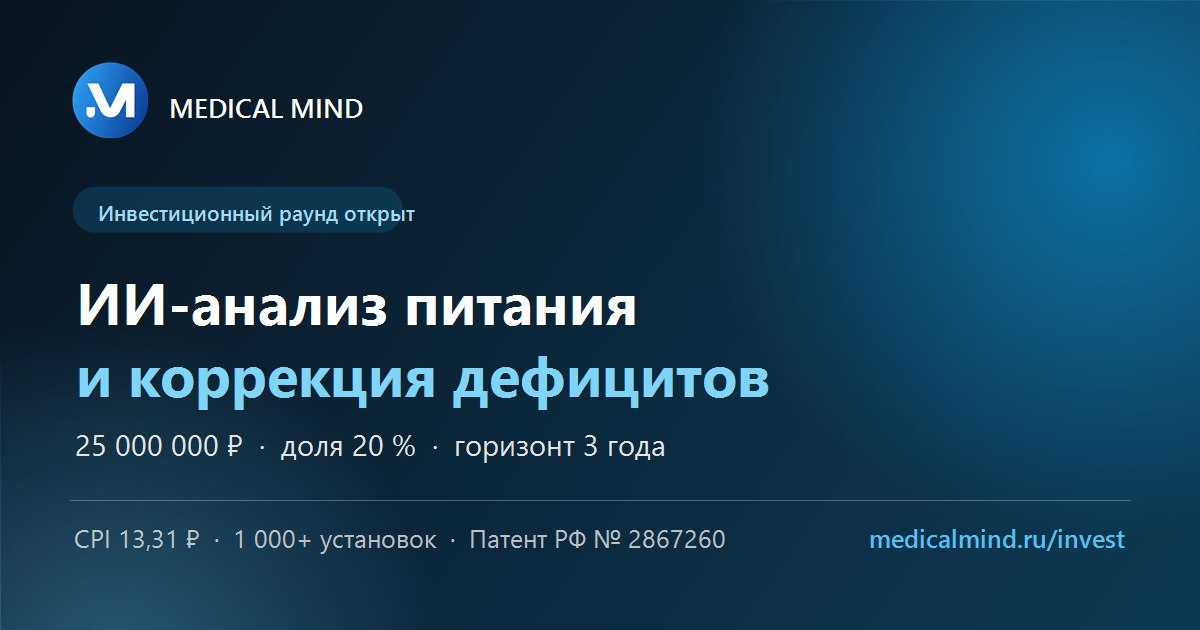
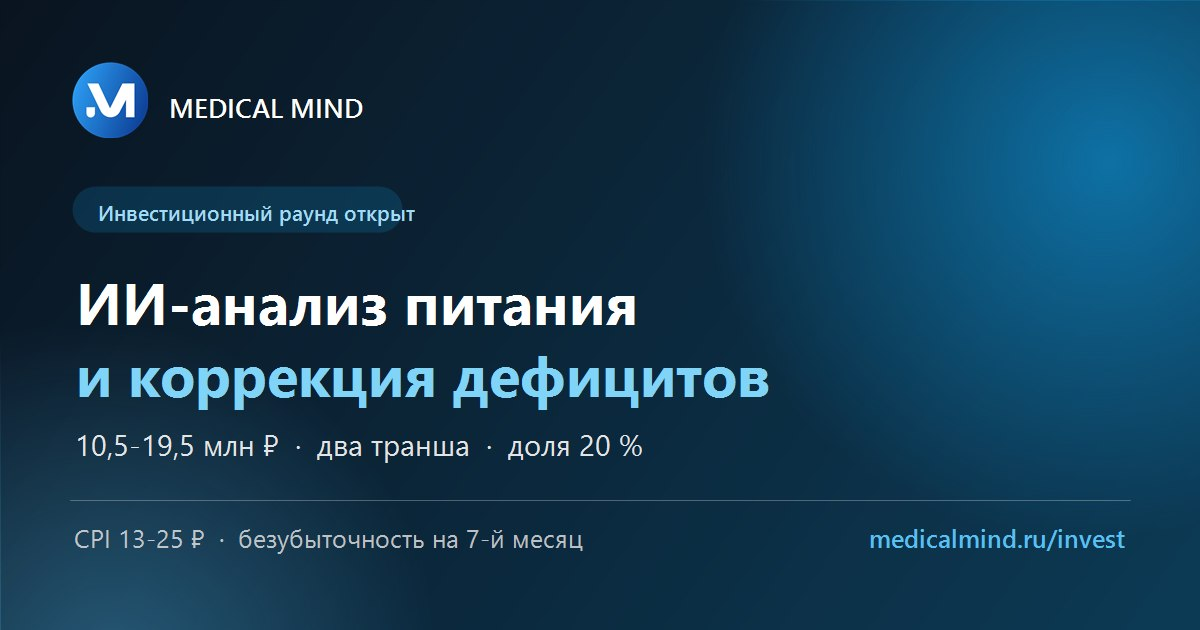
data(invest): цифры финмодели v2.1 — вилка 10,5–19,5 млн ₽ двумя траншами
Запрос 25 млн ₽ единым раундом и распределение 40/28/20/12 убраны везде,
включая метатеги и og:image.

Раунд:
- запрос — вилка 10,5–19,5 млн ₽ (AI-lean -> 10,5, классический штат -> 19,5),
  два транша; доля 20% и горизонт 3 года без изменений;
- добавлены тексты про транши, gate по конверсии >= 2%, обоснование вилки
  и снижение риска — в существующих блоках .callout, вёрстка не менялась.

Использование средств из затрат модели до безубыточности (М1–М7, база×lean):
маркетинг 33, команда 33, ИИ-инфраструктура 14, СТМ БАД 8, наука и ИС 5,
операции и резерв 8. Абсолютные суммы по статьям убраны: при запросе-вилке
они неоднозначны, поэтому рендер суммы стал опциональным.

Цифры проекта: CPI 13–25 ₽ двумя верифицированными замерами (январь и август
2026, VK Ads) вместо 13,31 ₽; добавлены комиссия RuStore 15%, выход в
операционный плюс на 7-й месяц, доля БАД и партнёрских сервисов 28–30%
к концу второго года. Прогноз выручки 27/58/60 млн ₽ вместо 50/190/290.
В строку юнит-экономики добавлен LTV/CAC 2–3× на консервативных допущениях
и 5×+ при целевом удержании.

Два места пришлось поправить по месту, иначе данные не читались:
кегль суммы в центре диаграммы уменьшен, чтобы вилка легла в две строки
внутри кольца; подпись статьи сокращена до «Наука и ИС» — полная
формулировка ломала строку на 390 px, детали ушли в сноску под диаграммой.

Changed region(s): [[0.1233, 0.8444, 0.6167, 0.8746], [0.0617, 0.6937, 0.555, 0.7238]]

diff --git a/public/invest/app.js b/public/invest/app.js
@@ -8,7 +8,7 @@
 const METRICS = {
 
   /* --- дата актуальности данных (выводится в блоке «Цифры проекта») --- */
-  updated: '18 августа 2026',
+  updated: '24 августа 2026',
 
   /* --- контакты и ссылки --- */
   email:       'farmico@list.ru',
@@ -24,7 +24,30 @@ const METRICS = {
   yandexMetrikaId: null,
 
   /* --- параметры раунда --- */
-  round: { amount: 25000000, amountShort: '25 млн ₽', share: 20, horizonYears: 3 },
+  /* Финмодель v2.1. Запрос — вилка, зависит от модели команды:
+     AI-lean -> 10,5 млн ₽, классический штат -> 19,5 млн ₽. */
+  round: {
+    amountShort: '10,5–19,5 млн ₽',
+    tranchesShort: 'два транша',
+    share: 20,
+    horizonYears: 3
+  },
+
+  /* Тексты по раунду (финмодель v2.1) */
+  trancheNote: 'Раунд 10,5–19,5 млн ₽ двумя траншами. Второй транш — только после подтверждения ' +
+               'юнит-экономики на живом трафике: инвестор не платит за масштабирование ' +
+               'до доказанной конверсии.',
+  trancheBreakdown: 'Транш 1 — 7,0 млн ₽: продукт, запуск СТМ, ИИ-оборудование и проверка ' +
+                    'юнит-экономики. Транш 2 — 5,5 млн ₽: масштабирование рекламы, ' +
+                    'выплачивается только после подтверждения конверсии ≥ 2 % (gate).',
+  whyRange: 'Почему вилка. Нижняя граница — AI-lean операционная модель (фаундер + AI-агентная ' +
+            'разработка + минимальный наём): выход в прибыль на 7-й месяц. Верхняя — классическая ' +
+            'команда с ускоренным наймом. Разница — около 9 млн ₽ и 2 месяца до безубыточности; ' +
+            'выбор структуры — совместно с инвестором.',
+  riskNote: 'Снижение риска. Модель построена на верифицированных данных: два замера CPI, ' +
+            'работающие платежи, фактическая комиссия магазина и себестоимость AI. Два допущения — ' +
+            'конверсия и удержание — проверяются в первые 2 месяца на бюджете около 150 тыс ₽ ' +
+            'до раскрытия основного капитала.',
 
   /* --- охраняемые документы (номера) --- */
   patent:    '2867260',
@@ -34,9 +57,9 @@ const METRICS = {
   /* --- карточки блока «Цифры проекта» ---
      tag: 'fact' — факт, 'est' — оценка, 'fcst' — прогноз                     */
   cards: [
-    { value: 13.31, decimals: 2, unit: '₽',
+    { value: 13, suffix: '–25', unit: '₽',
       label: 'CPI — стоимость установки',
-      note:  'Реальная кампания ВКонтакте: в 11 раз ниже прогноза 150 ₽.', tag: 'fact' },
+      note:  'Два верифицированных замера: январь и август 2026, VK Ads.', tag: 'fact' },
 
     { value: 1000, suffix: '+',
       label: 'установок в RuStore',
@@ -50,6 +73,18 @@ const METRICS = {
       label: 'подписка Premium',
       note:  'Монетизация работает в проде, платежи проходят.', tag: 'fact' },
 
+    { value: 15, unit: '%',
+      label: 'комиссия RuStore',
+      note:  'Подтверждена фактической выплатой магазина.', tag: 'fact' },
+
+    { value: 7, unit: 'мес.',
+      label: 'выход в операционный плюс',
+      note:  'Базовый сценарий финмодели при AI-lean команде.', tag: 'fcst' },
+
+    { value: 28, suffix: '–30', unit: '%',
+      label: 'доля БАД и партнёрских сервисов',
+      note:  'В выручке к концу второго года.', tag: 'fcst' },
+
     { value: 50, suffix: '+', unit: 'млрд ₽/год',
       label: 'рынок HealthTech в России',
       note:  'Оценка объёма, рост 12–15 % в год.', tag: 'est' },
@@ -59,8 +94,10 @@ const METRICS = {
       note:  'Оценка объёма, рост 12–15 % в год.', tag: 'est' }
   ],
 
-  metricsFootnote: 'Рекламная кампания возобновлена в августе 2026 — значение CPI будет обновляться. ' +
-                   'Рыночные объёмы приведены как оценка, плановые показатели помечены как прогноз.',
+
+  metricsFootnote: 'CPI подтверждён двумя замерами кампаний VK Ads (январь и август 2026) и будет обновляться. ' +
+                   'Рыночные объёмы приведены как оценка, показатели финмодели помечены как прогноз ' +
+                   'и не гарантируются.',
 
   /* --- «Как это работает» --- */
   steps: [
@@ -91,6 +128,7 @@ const METRICS = {
   arpu: 1139,
   paybackFrom: 1,
   paybackTo: 2,
+  ltvCac: 'LTV/CAC 2–3× на консервативных допущениях, 5×+ при целевом удержании',
 
   /* --- наука и защита --- */
   science: [
@@ -106,13 +144,19 @@ const METRICS = {
   ],
 
   /* --- использование средств (сумма долей должна давать 100 %) --- */
-  fundsNote: 'Базовый план — структура уточняется по итогам раунда.',
+  fundsNote: 'Доли рассчитаны из затрат финмодели v2.1 до точки безубыточности (месяцы 1–7, ' +
+             'сценарий база × lean). ИИ-инфраструктура — оборудование и датасеты (CAPEX); ' +
+             'СТМ БАД — СГР, «Честный знак» и первая партия; наука и ИС — НИР с НИИ гигиены ' +
+             'и патент США.',
   funds: [
-    { label: 'Команда',                        percent: 40, amount: 10000000, color: '#0a6fb3' },
-    { label: 'Маркетинг',                      percent: 28, amount:  7000000, color: '#0f9ee6' },
-    { label: 'Производство линейки БАД',       percent: 20, amount:  5000000, color: '#57c0f4' },
-    { label: 'IT-инфраструктура и резерв',     percent: 12, amount:  3000000, color: '#9ee7ff' }
+    { label: 'Маркетинг и рост',                    percent: 33, color: '#0a6fb3' },
+    { label: 'Команда',                             percent: 33, color: '#0f9ee6' },
+    { label: 'Собственная ИИ-инфраструктура',       percent: 14, color: '#57c0f4' },
+    { label: 'Запуск СТМ БАД',                      percent:  8, color: '#7fd4f7' },
+    { label: 'Наука и ИС',                            percent:  5, color: '#9ee7ff' },
+    { label: 'Операции, юридическое, резерв',       percent:  8, color: '#c7ecff' }
   ],
+
 
   /* --- дорожная карта --- */
   roadmap: [
@@ -121,7 +165,7 @@ const METRICS = {
     { period: 'Мес. 7–12', text: 'Масштабирование, БАД на маркетплейсах, первые B2B-контракты.' },
     { period: 'Год 2–3',   text: 'Federal scale, выход в СНГ, подготовка раунда Series A.' }
   ],
-  revenueYear3: '≈ 290 млн ₽/год',
+  revenue: { y1: '≈ 27 млн ₽', y2: '≈ 58 млн ₽', y3: '≈ 60 млн ₽' },
 
   /* --- команда --- */
   team: [
@@ -169,12 +213,17 @@ const METRICS = {
     patent:          METRICS.patent,
     metricsFootnote: METRICS.metricsFootnote,
     roundAmountShort: METRICS.round.amountShort,
-    roundLine: 'Запрос: ' + nf.format(METRICS.round.amount) + ' ₽ · доля ' + METRICS.round.share +
-               '% · горизонт ' + METRICS.round.horizonYears + ' года',
-    arpuLine: 'ARPU платящего пользователя — ' + nf.format(METRICS.arpu) + ' ₽/мес · окупаемость привлечения ≈ ' +
-              METRICS.paybackFrom + '–' + METRICS.paybackTo + ' мес. (расчёт по модели)',
-    forecastLine: 'Прогноз выручки к третьему году — ' + METRICS.revenueYear3 +
-                  ' (базовый сценарий, прогноз — не гарантируется).'
+    roundLine: 'Запрос: ' + METRICS.round.amountShort + ' · ' + METRICS.round.tranchesShort +
+               ' · доля ' + METRICS.round.share + '% · горизонт ' + METRICS.round.horizonYears + ' года',
+    arpuLine: 'ARPU платящего пользователя — ' + nf.format(METRICS.arpu) + ' ₽/мес · окупаемость ' +
+              'привлечения ≈ ' + METRICS.paybackFrom + '–' + METRICS.paybackTo + ' мес. · ' +
+              METRICS.ltvCac + ' (расчёт по модели)',
+    forecastLine: 'Прогноз выручки: год 1 — ' + METRICS.revenue.y1 + ' · год 2 — ' + METRICS.revenue.y2 +
+                  ' · год 3 — ' + METRICS.revenue.y3 + ' (базовый сценарий, прогноз — не гарантируется).',
+    trancheNote: METRICS.trancheNote,
+    trancheBreakdown: METRICS.trancheBreakdown,
+    whyRange: METRICS.whyRange,
+    riskNote: METRICS.riskNote
   };
 
   var HREF = { mailto: mailtoHref, mailtoPlain: mailtoHref, rustore: METRICS.rustoreUrl };
@@ -279,7 +328,7 @@ const METRICS = {
                '<span class="fund__dot" style="background:' + f.color + '"></span>' +
                '<span class="fund__name">' + esc(f.label) + '</span>' +
                '<span class="fund__pct">' + f.percent + '%</span>' +
-               '<span class="fund__amt">' + nf.format(f.amount) + ' ₽</span>' +
+               (f.amount ? '<span class="fund__amt">' + nf.format(f.amount) + ' ₽</span>' : '') +
              '</div>' +
              '<div class="fund__bar"><span class="fund__fill" data-w="' + f.percent +
                '" style="background:' + f.color + '"></span></div></li>';

diff --git a/public/invest/index.html b/public/invest/index.html
@@ -4,7 +4,7 @@
 <meta charset="utf-8">
 <meta name="viewport" content="width=device-width, initial-scale=1">
 <title>Инвестиции в Medical Mind — ИИ-анализ питания | раунд открыт</title>
-<meta name="description" content="Medical Mind — приложение, которое по фото еды считает КБЖУ и 30+ нутриентов, находит скрытые дефициты и даёт персональный план. Методика с ФБУН «Новосибирский НИИ гигиены», патент РФ № 2867260. Инвестиционный раунд: 25 млн ₽ за 20%.">
+<meta name="description" content="Medical Mind — приложение, которое по фото еды считает КБЖУ и 30+ нутриентов, находит скрытые дефициты и даёт персональный план. Методика с ФБУН «Новосибирский НИИ гигиены», патент РФ № 2867260. Инвестиционный раунд: 10,5–19,5 млн ₽ двумя траншами.">
 <link rel="canonical" href="https://medicalmind.ru/invest/">
 <meta name="robots" content="index, follow">
 <meta name="theme-color" content="#0b1622">
@@ -14,13 +14,13 @@
 <meta property="og:locale" content="ru_RU">
 <meta property="og:url" content="https://medicalmind.ru/invest/">
 <meta property="og:title" content="Инвестиции в Medical Mind — ИИ-анализ питания | раунд открыт">
-<meta property="og:description" content="ИИ-анализ питания и коррекция дефицитов. CPI 13,31 ₽, 1000+ установок, подписка в проде. Патент РФ № 2867260. Раунд: 25 млн ₽ за 20%.">
+<meta property="og:description" content="ИИ-анализ питания и коррекция дефицитов. CPI 13–25 ₽, 1000+ установок, подписка в проде. Патент РФ № 2867260. Раунд: 10,5–19,5 млн ₽ двумя траншами.">
 <meta property="og:image" content="https://medicalmind.ru/invest/assets/og-invest.jpg">
 <meta property="og:image:width" content="1200">
 <meta property="og:image:height" content="630">
 <meta name="twitter:card" content="summary_large_image">
 <meta name="twitter:title" content="Инвестиции в Medical Mind — ИИ-анализ питания">
-<meta name="twitter:description" content="CPI 13,31 ₽, 1000+ установок, подписка в проде. Патент РФ № 2867260. Раунд: 25 млн ₽ за 20%.">
+<meta name="twitter:description" content="CPI 13–25 ₽, 1000+ установок, подписка в проде. Патент РФ № 2867260. Раунд: 10,5–19,5 млн ₽ двумя траншами.">
 <meta name="twitter:image" content="https://medicalmind.ru/invest/assets/og-invest.jpg">
 
 <link rel="icon" type="image/png" sizes="32x32" href="assets/favicon-32.png">
@@ -195,6 +195,11 @@
     </div>
 
     <p class="note reveal" id="fundsNote"></p>
+
+    <p class="callout reveal" data-m="trancheNote"></p>
+    <p class="callout reveal" data-m="trancheBreakdown"></p>
+    <p class="callout reveal" data-m="whyRange"></p>
+    <p class="callout reveal" data-m="riskNote"></p>
   </div>
 </section>
 

diff --git a/public/invest/styles.css b/public/invest/styles.css
@@ -381,7 +381,12 @@ a:hover { text-decoration: underline; }
   position: absolute; inset: 0; display: flex; flex-direction: column;
   align-items: center; justify-content: center; text-align: center; pointer-events: none;
 }
-.funds__center b { font-size: 27px; font-weight: 800; letter-spacing: -.02em; color: var(--ink); }
+/* Запрос — вилка «10,5–19,5 млн ₽»: кегль подобран так, чтобы строка
+   ложилась в отверстие диаграммы в две строки и не вылезала за кольцо. */
+.funds__center b {
+  font-size: 19px; font-weight: 800; letter-spacing: -.02em; color: var(--ink);
+  line-height: 1.15; max-width: 116px;
+}
 .funds__center span { font-size: 12.5px; color: var(--muted); }
 
 .funds__list { display: grid; gap: 20px; }

diff --git a/INVEST.md b/INVEST.md
@@ -15,7 +15,7 @@ public/invest/
 ## Как обновить цифры
 
 1. Откройте `public/invest/app.js` — объект `METRICS` в самом начале файла — и поправьте нужные значения.
-2. Обновите там же `updated: '18 августа 2026'` на новую дату и сделайте `git push` в `main` —
+2. Обновите там же `updated: '24 августа 2026'` на новую дату и сделайте `git push` в `main` —
    GitHub Actions пересоберёт сайт за 1–2 минуты.
 
 Больше числа нигде не дублируются: метрики, диаграмма «Использование средств», дорожная карта,
